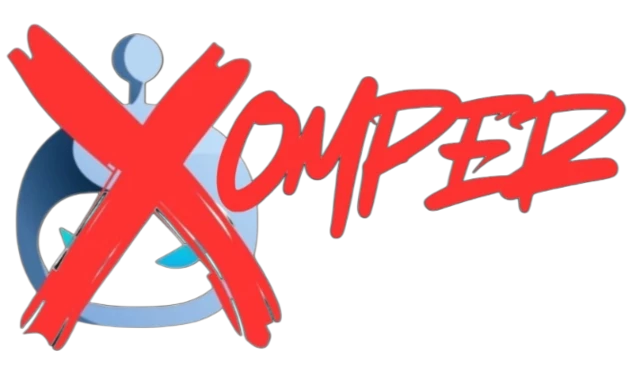
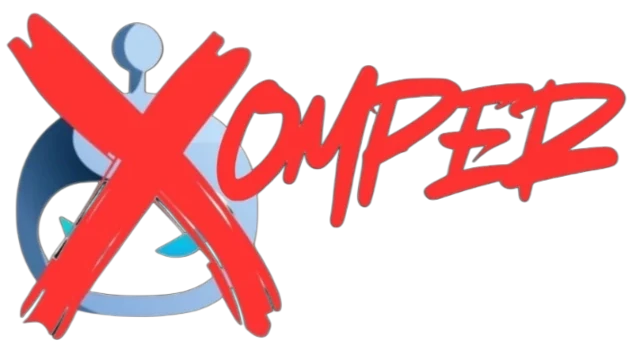
#239 Size the app list art evenly on its conveyors
- Trim the empty padding from six banners
- Stack the Sun God Derby banner into two rows so it reads on small tiles
- Taller 2:1 stage and a wider art box

diff --git a/src/app/components/app-directory/app-directory.component.scss b/src/app/components/app-directory/app-directory.component.scss
@@ -112,7 +112,8 @@ $ease-out: cubic-bezier(0.2, 0.8, 0.2, 1);
 // and a conveyor along the bottom that the banner rides on.
 .tile__stage {
   position: relative;
-  aspect-ratio: 16 / 7;
+  // 2:1 rather than 16:7: square badges (Reese's, Smirnoff) are held by the height and read small any shorter.
+  aspect-ratio: 2 / 1;
   overflow: hidden;
   background-color: $factory-floor;
   background-image:
@@ -153,13 +154,15 @@ $ease-out: cubic-bezier(0.2, 0.8, 0.2, 1);
   color: rgba(255, 255, 255, 0.38);
 }
 
+// The art box is wider than it is tall relative to the stage, so a long wordmark (Sun God Derby, Curbside) gets
+// close to the full width while a square badge is held by the height. Its foot stays on the belt at 83%.
 .tile__art {
   position: absolute;
-  top: 8%;
-  left: 13%;
+  top: 4%;
+  left: 6%;
   z-index: 1;
-  width: 74%;
-  height: 74%;
+  width: 88%;
+  height: 79%;
   object-fit: contain;
   object-position: 50% 100%;
   filter: drop-shadow(0 5px 4px rgba(0, 0, 0, 0.6));
